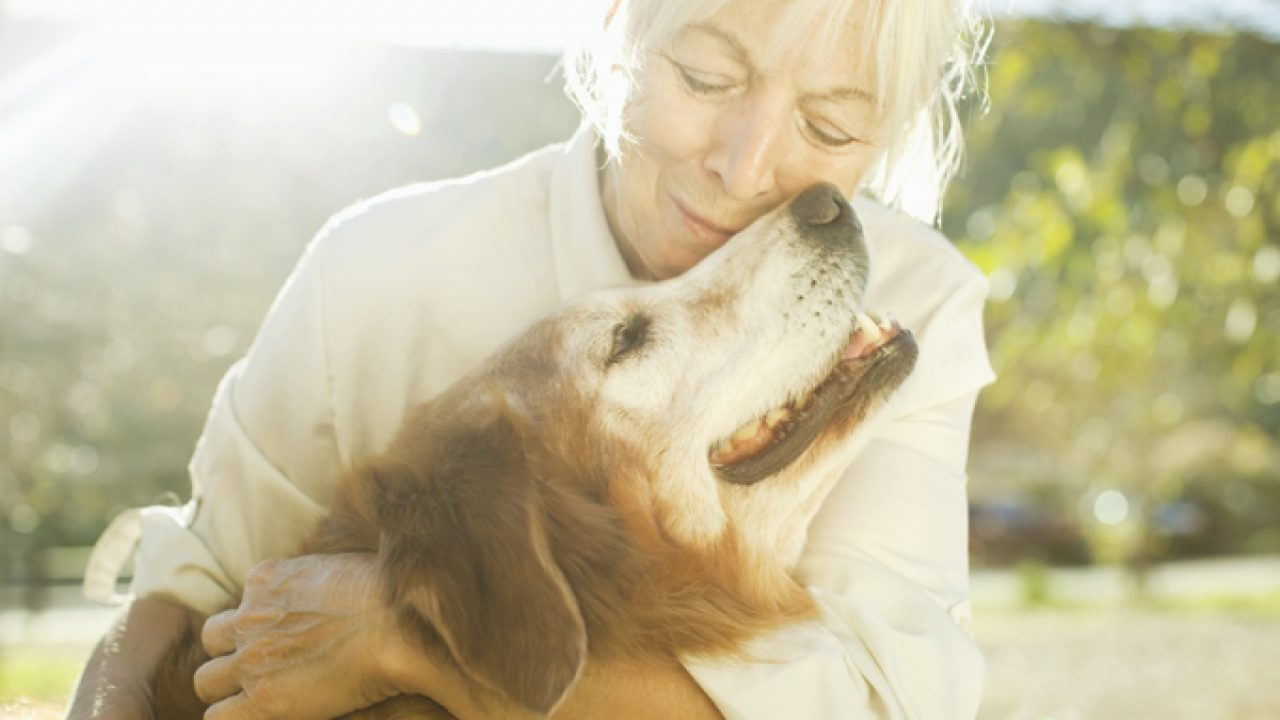
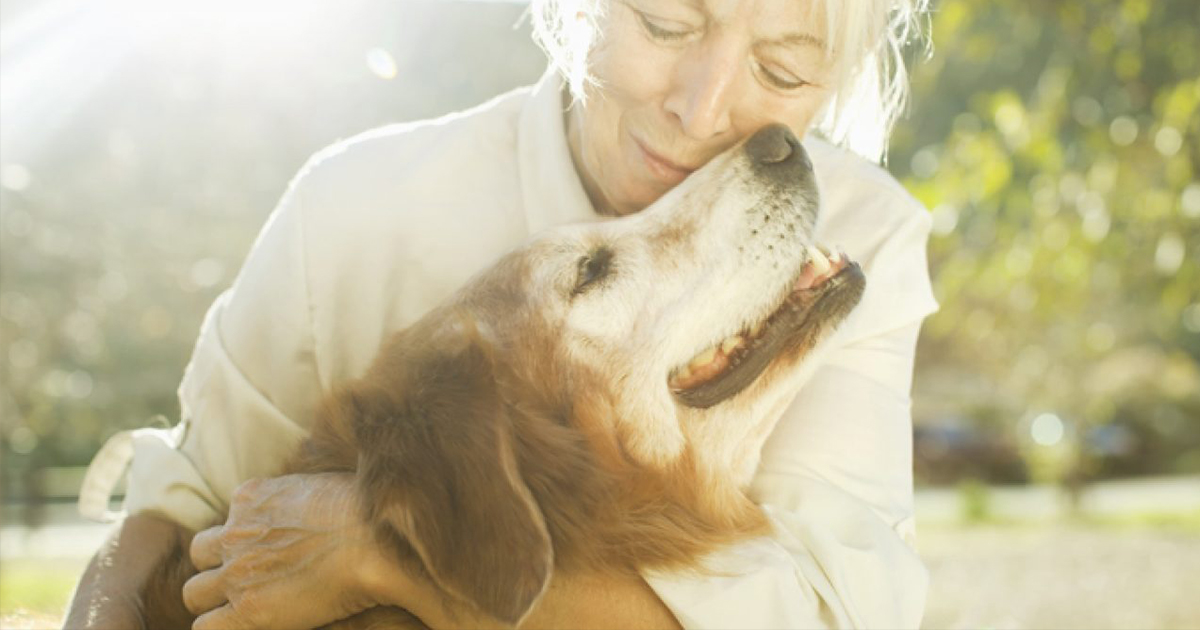
Added Captions, edited image size & added border around text

diff --git a/src/components/Welcome.js b/src/components/Welcome.js
@@ -7,49 +7,49 @@ import image4 from './../Images/4.jpeg';
 
 const Welcome = () => {
     return (
-        <Carousel>
-            <Carousel.Item interval={2000}>
+        <Carousel pause={false} controls={false}>
+            <Carousel.Item interval={3000}>
                 <img
-                    className="d-block w-100"
+                    className="carouselImage"
                     src={image1}
                     alt="First slide"
                 />
-                <Carousel.Caption>
-                    <h3>First slide label</h3>
-                    <p>Nulla vitae elit libero, a pharetra augue mollis interdum.</p>
+                <Carousel.Caption className="carouselCaption">
+                    <h3>“At your service! Samuel is just too proud to be homeless.”</h3>
+                    <br></br>
                 </Carousel.Caption>
             </Carousel.Item>
-            <Carousel.Item interval={2000}>
+            <Carousel.Item interval={3000}>
                 <img
-                    className="d-block w-100"
-                    src={image3}
+                    className="carouselImage"
+                    src={image2}
                     alt="Second slide"
                 />
-                <Carousel.Caption>
-                    <h3>Second slide label</h3>
-                    <p>Lorem ipsum dolor sit amet, consectetur adipiscing elit.</p>
+                <Carousel.Caption className="carouselCaption">
+                    <h3>''Oliver is always up for kisses & cuddles!''</h3>
+                    <br></br>
                 </Carousel.Caption>
             </Carousel.Item>
-            <Carousel.Item interval={2000}>
+            <Carousel.Item interval={3000}>
                 <img
-                    className="d-block w-100"
-                    src={image2}
+                    className="carouselImage"
+                    src={image3}
                     alt="Third slide"
                 />
-                <Carousel.Caption>
-                    <h3>Third slide label</h3>
-                    <p>Praesent commodo cursus magna, vel scelerisque nisl consectetur.</p>
+                <Carousel.Caption className="carouselCaption">
+                    <h3>“Amber loves you already — and you’ve only just met through a picture.”</h3>
+                    <br></br>
                 </Carousel.Caption>
             </Carousel.Item>
-            <Carousel.Item interval={2000}>
+            <Carousel.Item interval={3000}>
                 <img
-                    className="d-block w-100"
+                    className="carouselImage"
                     src={image4}
                     alt="Fourth slide"
                 />
-                <Carousel.Caption>
-                    <h3>Fourth slide label</h3>
-                    <p>Praesent commodo cursus magna, vel scelerisque nisl consectetur.</p>
+                <Carousel.Caption className="carouselCaption">
+                    <h3>"I will always be there to brighten up your day!"</h3>
+                    <br></br>
                 </Carousel.Caption>
             </Carousel.Item>
         </Carousel>

diff --git a/src/App.css b/src/App.css
@@ -12,12 +12,7 @@ body {
   height: 60px; /* Set the fixed height of the footer here */
   line-height: 60px; /* Vertically center the text there */
 }
-/* .homePage {
-  background-image: url('/src/Images/homePageDog.jpeg');
-  height: 90vh;
-  width: 100%;
-  background-position: center;
-  background-repeat: no-repeat;
-  background-size: cover;
-  position: relative;
-} */
+.carouselCaption{
+  -webkit-text-stroke-width: 1px;
+  -webkit-text-stroke-color: black;
+}
